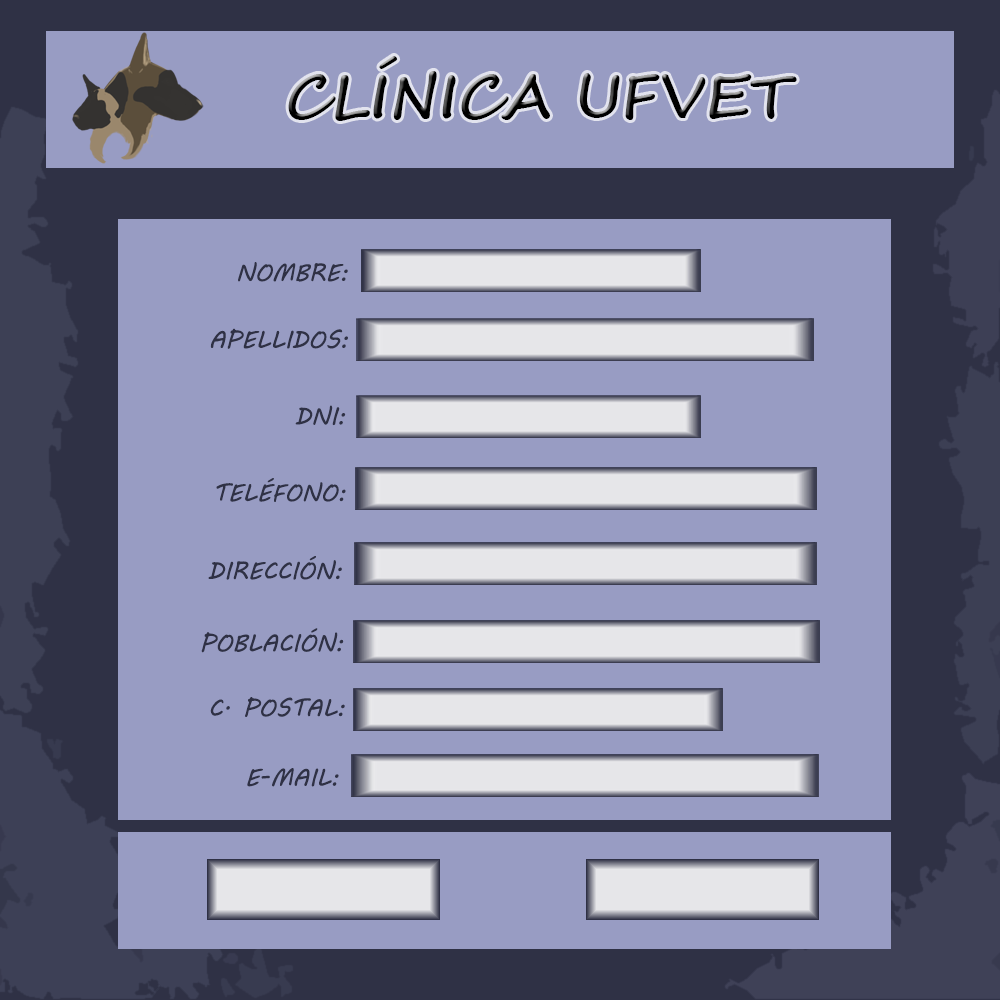
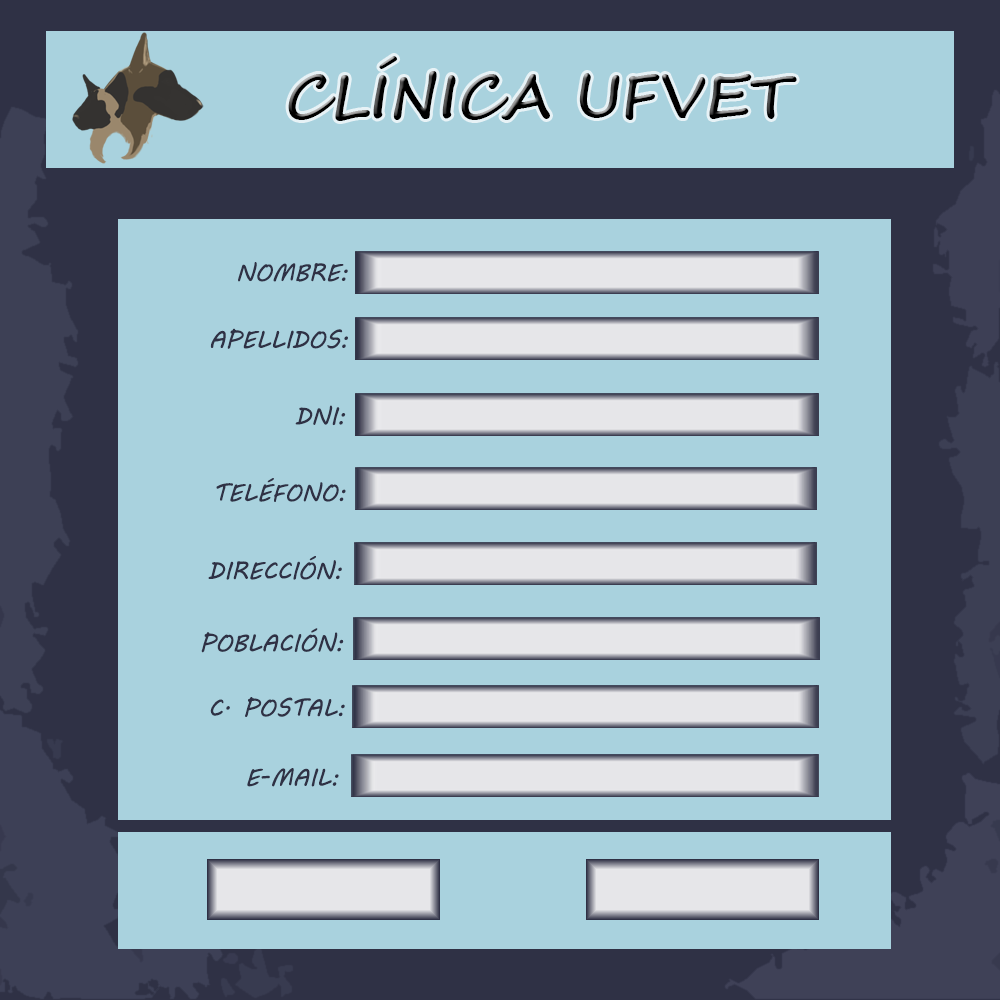
Ajustadas las cajas de las pestañas de inserción de datos y cambiado el color de fondo de las ventanas de cliente y cliente inserción de datos.

diff --git a/src/codigo/VentanaPrincipal.java b/src/codigo/VentanaPrincipal.java
@@ -208,23 +208,23 @@ public class VentanaPrincipal extends javax.swing.JFrame {
 
         jTextField7.setBackground(new java.awt.Color(204, 204, 255));
         jTextField7.setText("jTextField7");
-        jPanel4.add(jTextField7, new org.netbeans.lib.awtextra.AbsoluteConstraints(370, 547, 338, 35));
+        jPanel4.add(jTextField7, new org.netbeans.lib.awtextra.AbsoluteConstraints(370, 547, 440, 35));
 
         jTextField10.setBackground(new java.awt.Color(204, 204, 255));
         jTextField10.setText("jTextField10");
-        jPanel4.add(jTextField10, new org.netbeans.lib.awtextra.AbsoluteConstraints(367, 758, 452, 35));
+        jPanel4.add(jTextField10, new org.netbeans.lib.awtextra.AbsoluteConstraints(369, 758, 441, 35));
 
         jTextField8.setBackground(new java.awt.Color(204, 204, 255));
         jTextField8.setText("jTextField8");
-        jPanel4.add(jTextField8, new org.netbeans.lib.awtextra.AbsoluteConstraints(370, 625, 447, 35));
+        jPanel4.add(jTextField8, new org.netbeans.lib.awtextra.AbsoluteConstraints(370, 625, 440, 35));
 
         jTextField6.setBackground(new java.awt.Color(204, 204, 255));
         jTextField6.setText("jTextField6");
-        jPanel4.add(jTextField6, new org.netbeans.lib.awtextra.AbsoluteConstraints(370, 472, 272, 35));
+        jPanel4.add(jTextField6, new org.netbeans.lib.awtextra.AbsoluteConstraints(370, 472, 440, 35));
 
         jTextField3.setBackground(new java.awt.Color(204, 204, 255));
         jTextField3.setText("jTextField3");
-        jPanel4.add(jTextField3, new org.netbeans.lib.awtextra.AbsoluteConstraints(370, 254, 324, 35));
+        jPanel4.add(jTextField3, new org.netbeans.lib.awtextra.AbsoluteConstraints(370, 254, 440, 35));
 
         jTextField4.setBackground(new java.awt.Color(204, 204, 255));
         jTextField4.setText("jTextField4");
@@ -232,18 +232,18 @@ public class VentanaPrincipal extends javax.swing.JFrame {
 
         jTextField9.setBackground(new java.awt.Color(204, 204, 255));
         jTextField9.setText("jTextField9");
-        jPanel4.add(jTextField9, new org.netbeans.lib.awtextra.AbsoluteConstraints(369, 694, 351, 35));
+        jPanel4.add(jTextField9, new org.netbeans.lib.awtextra.AbsoluteConstraints(369, 691, 440, 35));
 
         jTextField5.setBackground(new java.awt.Color(204, 204, 255));
         jTextField5.setText("jTextField5");
-        jPanel4.add(jTextField5, new org.netbeans.lib.awtextra.AbsoluteConstraints(370, 397, 447, 35));
+        jPanel4.add(jTextField5, new org.netbeans.lib.awtextra.AbsoluteConstraints(370, 397, 440, 35));
 
         jLabel20.setIcon(new javax.swing.ImageIcon(getClass().getResource("/imagenes/pgDatosMascota.png"))); // NOI18N
         jPanel4.add(jLabel20, new org.netbeans.lib.awtextra.AbsoluteConstraints(0, 0, 1004, 1006));
 
         jScrollPane3.setViewportView(jPanel4);
 
-        ventanaMascotaNueva.getContentPane().add(jScrollPane3, new org.netbeans.lib.awtextra.AbsoluteConstraints(0, 0, -1, -1));
+        ventanaMascotaNueva.getContentPane().add(jScrollPane3, new org.netbeans.lib.awtextra.AbsoluteConstraints(0, 0, -1, 620));
 
         ventanaClienteNuevo.getContentPane().setLayout(new org.netbeans.lib.awtextra.AbsoluteLayout());
 
@@ -254,42 +254,42 @@ public class VentanaPrincipal extends javax.swing.JFrame {
 
         jTextField11.setBackground(new java.awt.Color(204, 204, 255));
         jTextField11.setText("jTextField3");
-        jPanel5.add(jTextField11, new org.netbeans.lib.awtextra.AbsoluteConstraints(370, 256, 322, 35));
+        jPanel5.add(jTextField11, new org.netbeans.lib.awtextra.AbsoluteConstraints(367, 256, 440, 35));
 
         jTextField12.setBackground(new java.awt.Color(204, 204, 255));
         jTextField12.setText("jTextField4");
-        jPanel5.add(jTextField12, new org.netbeans.lib.awtextra.AbsoluteConstraints(366, 325, 438, 35));
+        jPanel5.add(jTextField12, new org.netbeans.lib.awtextra.AbsoluteConstraints(366, 323, 440, 35));
 
         jTextField13.setBackground(new java.awt.Color(204, 204, 255));
         jTextField13.setText("jTextField5");
-        jPanel5.add(jTextField13, new org.netbeans.lib.awtextra.AbsoluteConstraints(366, 402, 326, 35));
+        jPanel5.add(jTextField13, new org.netbeans.lib.awtextra.AbsoluteConstraints(366, 399, 440, 35));
 
         jTextField14.setBackground(new java.awt.Color(204, 204, 255));
         jTextField14.setText("jTextField6");
-        jPanel5.add(jTextField14, new org.netbeans.lib.awtextra.AbsoluteConstraints(364, 474, 443, 35));
+        jPanel5.add(jTextField14, new org.netbeans.lib.awtextra.AbsoluteConstraints(366, 473, 440, 35));
 
         jTextField15.setBackground(new java.awt.Color(204, 204, 255));
         jTextField15.setText("jTextField7");
-        jPanel5.add(jTextField15, new org.netbeans.lib.awtextra.AbsoluteConstraints(364, 549, 443, 35));
+        jPanel5.add(jTextField15, new org.netbeans.lib.awtextra.AbsoluteConstraints(366, 548, 440, 35));
 
         jTextField16.setBackground(new java.awt.Color(204, 204, 255));
         jTextField16.setText("jTextField8");
-        jPanel5.add(jTextField16, new org.netbeans.lib.awtextra.AbsoluteConstraints(363, 627, 446, 35));
+        jPanel5.add(jTextField16, new org.netbeans.lib.awtextra.AbsoluteConstraints(366, 624, 440, 35));
 
         jTextField17.setBackground(new java.awt.Color(204, 204, 255));
         jTextField17.setText("jTextField9");
-        jPanel5.add(jTextField17, new org.netbeans.lib.awtextra.AbsoluteConstraints(362, 695, 351, 35));
+        jPanel5.add(jTextField17, new org.netbeans.lib.awtextra.AbsoluteConstraints(366, 690, 440, 35));
 
         jTextField18.setBackground(new java.awt.Color(204, 204, 255));
         jTextField18.setText("jTextField10");
-        jPanel5.add(jTextField18, new org.netbeans.lib.awtextra.AbsoluteConstraints(360, 761, 450, 35));
+        jPanel5.add(jTextField18, new org.netbeans.lib.awtextra.AbsoluteConstraints(366, 760, 440, 35));
 
         jLabel21.setIcon(new javax.swing.ImageIcon(getClass().getResource("/imagenes/pgDatosCliente.png"))); // NOI18N
         jPanel5.add(jLabel21, new org.netbeans.lib.awtextra.AbsoluteConstraints(0, 2, 1000, 1000));
 
         jScrollPane4.setViewportView(jPanel5);
 
-        ventanaClienteNuevo.getContentPane().add(jScrollPane4, new org.netbeans.lib.awtextra.AbsoluteConstraints(0, 0, -1, 700));
+        ventanaClienteNuevo.getContentPane().add(jScrollPane4, new org.netbeans.lib.awtextra.AbsoluteConstraints(0, 0, -1, 620));
 
         setDefaultCloseOperation(javax.swing.WindowConstants.EXIT_ON_CLOSE);
         setMinimumSize(new java.awt.Dimension(1010, 700));
